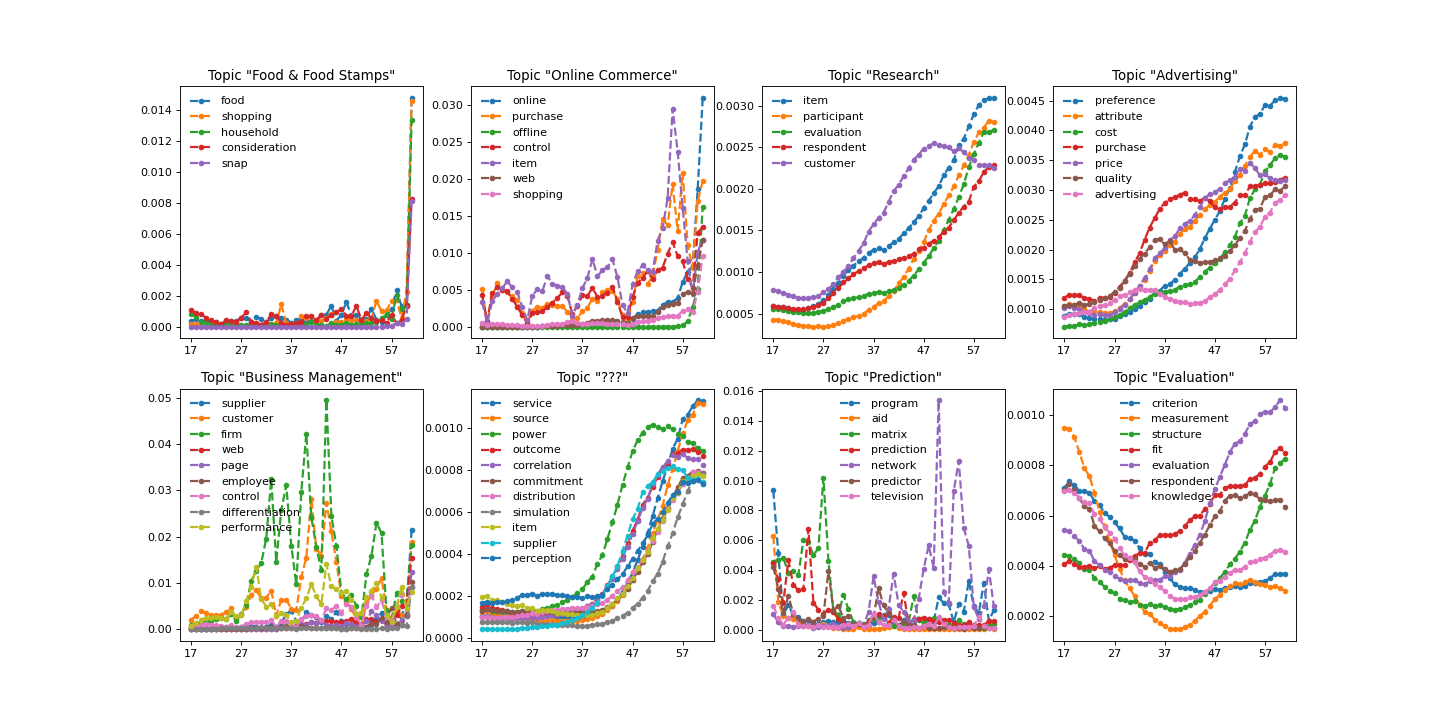
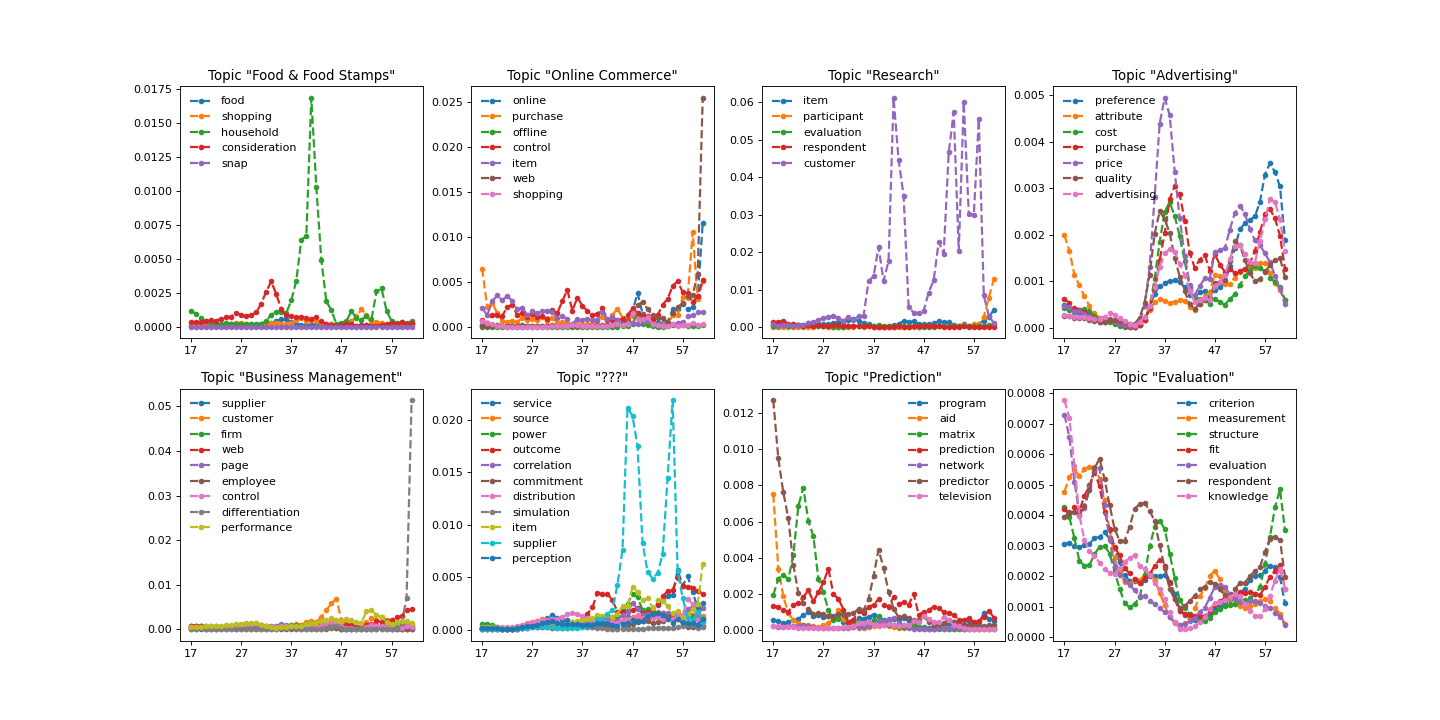
update - topic diff

diff --git a/topic_diff.py b/topic_diff.py
@@ -1,0 +1,83 @@
+import scipy.io 
+import matplotlib.pyplot as plt 
+import data 
+import pickle 
+import numpy as np 
+
+TOPIC = 14
+TIME = 26
+TOPWORDS = 30
+SOURCE = 'data/JMR/split_paragraph_False/min_df_10'
+BETA = 'results/S-batchcheck/detm_jmr_K_30_Htheta_800_Optim_adam_Clip_0.0_ThetaAct_relu_Lr_0.001_Bsz_100_RhoSize_300_L_3_minDF_10_trainEmbeddings_1_beta.mat'
+
+beta = scipy.io.loadmat(BETA)['values'] ## K x T x V
+
+with open(f'{SOURCE}/timestamps.pkl', 'rb') as f:
+    timelist = pickle.load(f)
+
+T = len(timelist)
+ticks = [str(x) for x in timelist]
+
+## get vocab
+data_file = SOURCE
+vocab, train, valid, test = data.get_data(data_file, temporal=True)
+vocab_size = len(vocab)  
+
+gamma = beta[TOPIC, :, :]
+
+BOLD = "\033[1m"
+GREEN = "\033[32m"
+RED = "\033[31m"
+RESET = "\033[0m"
+
+retained_words_count_list = []
+retained_words_ratio_list = []
+new_words_count_list = []
+new_words_ratio_list = []
+removed_words_count_list = []
+removed_words_ratio_list = []
+
+
+for i in range(T):
+    top_words = list(gamma[i, :].argsort()[-TOPWORDS+1:][::-1])
+    topic_words = [vocab[a] for a in top_words]
+
+    if i != 0:
+        prev_top_words_id = list(gamma[i-1, :].argsort()[-TOPWORDS+1:][::-1])
+        prev_top_words = [vocab[a] for a in prev_top_words_id]
+
+        new_words = [word for word in topic_words if word not in prev_top_words]
+        retained_words = [word for word in topic_words if word in prev_top_words]
+        removed_words = [word for word in prev_top_words if word not in topic_words]
+
+        new_words = [f"{GREEN}{word}{RESET}" for word in new_words]
+        retained_words = [f"{BOLD}{word}{RESET}" for word in retained_words]
+        removed_words = [f"{RED}{word}{RESET}" for word in removed_words]
+
+        print(f'Time: {i-1} ==> {i}')
+
+        retained_words_ratio = f'{100*len(retained_words)/TOPWORDS:.2f}%'
+        retained_words_ratio_list.append(retained_words_ratio)
+        retained_words_count = len(retained_words)
+        retained_words_count_list.append(retained_words_count)
+        retained_words_str = f'{BOLD}Retained words: {", ".join(retained_words)} {BOLD} ~{retained_words_count}, ~{retained_words_ratio} {RESET}'
+        print(retained_words_str)
+
+        new_words_ratio = f'{100*len(new_words)/TOPWORDS:.2f}%'
+        new_words_ratio_list.append(new_words_ratio)
+        new_words_count = len(new_words)
+        new_words_count_list.append(new_words_count)
+        new_words_str = f'{GREEN}New words: {", ".join(new_words)} {GREEN} +{new_words_count}, +{new_words_ratio} {RESET}'
+        print(new_words_str)
+
+        removed_words_ratio = f'{100*len(removed_words)/TOPWORDS:.2f}%'
+        removed_words_ratio_list.append(removed_words_ratio)
+        removed_words_count = len(removed_words)
+        removed_words_count_list.append(removed_words_count)
+        removed_words_str = f'{RED}Removed words: {", ".join(removed_words)} {RED} -{removed_words_count}, -{removed_words_ratio} {RESET}'
+        print(removed_words_str)
+
+print()
+print('Average Retained Words Count: ', np.mean(retained_words_count_list))
+print('Average New Words Count: ', np.mean(new_words_count_list))   
+print('Average Removed Words Count: ', np.mean(removed_words_count_list))

diff --git a/plot_all_jmr.py b/plot_all_jmr.py
@@ -12,12 +12,16 @@ import data
 import pickle 
 import numpy as np 
 
+BS = 10
+
 # Load the beta matrix
-beta = scipy.io.loadmat('./results/detm_jmr_K_30_Htheta_800_Optim_adam_Clip_0.0_ThetaAct_relu_Lr_0.001_Bsz_10_RhoSize_300_L_3_minDF_10_trainEmbeddings_1_beta.mat')['values']
+beta = scipy.io.loadmat(f'./results/newstuff/detm_JMR_K_50_Htheta_800_Optim_adam_Clip_0.0_ThetaAct_relu_Lr_0.001_Bsz_200_RhoSize_300_L_3_minDF_10_trainEmbeddings_1_beta.mat')['values']
+#beta = scipy.io.loadmat('./results/detm_jmr_K_30_Htheta_800_Optim_adam_Clip_0.0_ThetaAct_relu_Lr_0.001_Bsz_10_RhoSize_300_L_3_minDF_10_trainEmbeddings_1_beta.mat')['values']
+#beta = scipy.io.loadmat(f'./results/S-batchcheck/detm_jmr_K_30_Htheta_800_Optim_adam_Clip_0.0_ThetaAct_relu_Lr_0.001_Bsz_{BS}_RhoSize_300_L_3_minDF_10_trainEmbeddings_1_beta.mat')['values']
 print('beta: ', beta.shape)
 
 # Load the timelist
-with open('data/JMR/split_paragraph_False/min_df_10/timestamps.pkl', 'rb') as f:
+with open('data/JMRnew/split_paragraph_False/min_df_10/timestamps.pkl', 'rb') as f:
     timelist = pickle.load(f)
 print('timelist: ', timelist)
 T = len(timelist)
@@ -29,7 +33,7 @@ ticks = [int(x) + shift_value for x in timelist]
 print('ticks with shift: ', ticks)
 
 # Get the vocabulary and other data
-data_file = 'data/JMR/split_paragraph_False/min_df_10'
+data_file = 'data/JMRnew/split_paragraph_False/min_df_10'
 vocab, train, valid, test = data.get_data(data_file, temporal=True)
 vocab_size = len(vocab)
 
@@ -64,5 +68,5 @@ for k in range(num_topics):
 
 # Adjust layout and save the figure
 plt.tight_layout()
-plt.savefig('word_evolution_jmr_all.png')
+plt.savefig(f'word_evolution_jmr_{BS}.png')
 plt.show()

diff --git a/plot_topics.py b/plot_topics.py
@@ -54,9 +54,9 @@ if use == 'JM':
     data_file = 'data/JM/split_paragraph_False/min_df_10'
     shift_value = 1936
 elif use == 'JMR':
-    beta = scipy.io.loadmat('./results/detm_jmr_K_30_Htheta_800_Optim_adam_Clip_0.0_ThetaAct_relu_Lr_0.001_Bsz_10_RhoSize_300_L_3_minDF_10_trainEmbeddings_1_beta.mat')['values']
-    timestamps = 'data/JMR/split_paragraph_False/min_df_10/timestamps.pkl'
-    data_file = 'data/JMR/split_paragraph_False/min_df_10'
+    beta = scipy.io.loadmat('./results/newstuff/detm_JMR_K_50_Htheta_800_Optim_adam_Clip_0.0_ThetaAct_relu_Lr_0.001_Bsz_200_RhoSize_300_L_3_minDF_10_trainEmbeddings_1_beta.mat')['values']
+    timestamps = 'data/JMRnew/split_paragraph_False/min_df_10/timestamps.pkl'
+    data_file = 'data/JMRnew/split_paragraph_False/min_df_10'
     shift_value = 1963
 else:
     beta = scipy.io.loadmat('./results/SLURMED/detm_un_K_50_Htheta_800_Optim_adam_Clip_0.0_ThetaAct_relu_Lr_0.001_Bsz_200_RhoSize_300_L_3_minDF_30_trainEmbeddings_1_beta.mat')['values']

diff --git a/[WIP]plot_topics_and_words.py b/[WIP]plot_topics_and_words.py
@@ -45,7 +45,8 @@ if use == 'JM':
     emb_path = 'embeddings/JM/skipgram_emb_300d.txt'
     shift_value = 1936
 else:
-    alpha = scipy.io.loadmat('./results/detm_jmr_K_30_Htheta_800_Optim_adam_Clip_0.0_ThetaAct_relu_Lr_0.001_Bsz_10_RhoSize_300_L_3_minDF_10_trainEmbeddings_1_alpha.mat')['values']
+    #alpha = scipy.io.loadmat('./results/detm_jmr_K_30_Htheta_800_Optim_adam_Clip_0.0_ThetaAct_relu_Lr_0.001_Bsz_10_RhoSize_300_L_3_minDF_10_trainEmbeddings_1_alpha.mat')['values']
+    alpha = scipy.io.loadmat('./results/S-batchcheck/detm_jmr_K_30_Htheta_800_Optim_adam_Clip_0.0_ThetaAct_relu_Lr_0.001_Bsz_100_RhoSize_300_L_3_minDF_10_trainEmbeddings_1_alpha.mat')['values']
     timestamps = 'data/JMR/split_paragraph_False/min_df_10/timestamps.pkl'
     data_file = 'data/JMR/split_paragraph_False/min_df_10'
     emb_path = 'embeddings/JMR/skipgram_emb_300d.txt'

diff --git a/plot_curated_jmr.py b/plot_curated_jmr.py
@@ -13,7 +13,7 @@ import data
 import pickle 
 import numpy as np 
 
-beta = scipy.io.loadmat('./results/detm_jmr_K_30_Htheta_800_Optim_adam_Clip_0.0_ThetaAct_relu_Lr_0.001_Bsz_10_RhoSize_300_L_3_minDF_10_trainEmbeddings_1_beta.mat')['values'] ## K x T x V  #MODIFICATION
+beta = scipy.io.loadmat('./results/S-batchcheck/detm_jmr_K_30_Htheta_800_Optim_adam_Clip_0.0_ThetaAct_relu_Lr_0.001_Bsz_100_RhoSize_300_L_3_minDF_10_trainEmbeddings_1_beta.mat')['values'] ## K x T x V  #MODIFICATION
 print('beta: ', beta.shape)
 
 with open('data/JMR/split_paragraph_False/min_df_10/timestamps.pkl', 'rb') as f: #MODIFICATION 'un' -> 'data/un/split_paragraph_1'
@@ -30,7 +30,7 @@ vocab_size = len(vocab)
 
 ## plot topics 
 num_words = 20 #10 -> 5
-times = [10, 30, 44] #40 -> 30
+times = [0, 20, 40] #40 -> 30
 num_topics = 30
 for k in range(num_topics):
     for t in times:

diff --git a/query_topic_words.py b/query_topic_words.py
@@ -4,11 +4,11 @@ import data
 import pickle 
 import numpy as np 
 
-TOPIC = 35
-TIME = 40
-WORDSTOSHOW = 10  
-SOURCE = 'data/un/split_paragraph_0/min_df_30'
-BETA = 'results/SLURMED/detm_un_K_50_Htheta_800_Optim_adam_Clip_0.0_ThetaAct_relu_Lr_0.001_Bsz_200_RhoSize_300_L_3_minDF_30_trainEmbeddings_1_beta.mat'
+TOPIC = 19
+TIME = 26
+WORDSTOSHOW = 20  
+SOURCE = 'data/JMR/split_paragraph_False/min_df_10'
+BETA = 'results/S-batchcheck/detm_jmr_K_30_Htheta_800_Optim_adam_Clip_0.0_ThetaAct_relu_Lr_0.001_Bsz_100_RhoSize_300_L_3_minDF_10_trainEmbeddings_1_beta.mat'
 
 beta = scipy.io.loadmat(BETA)['values'] ## K x T x V
 
